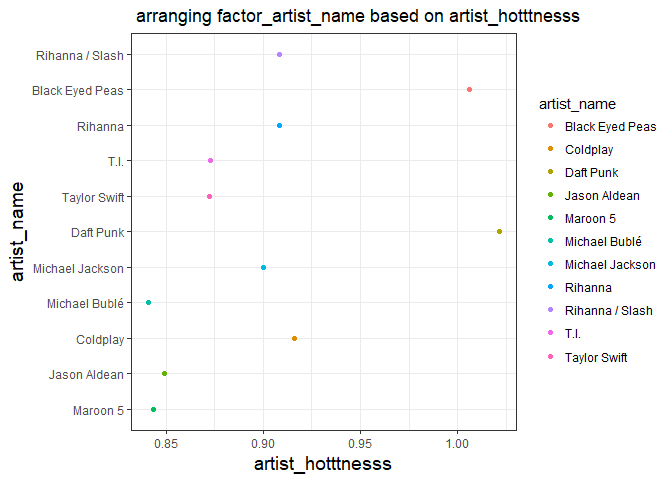
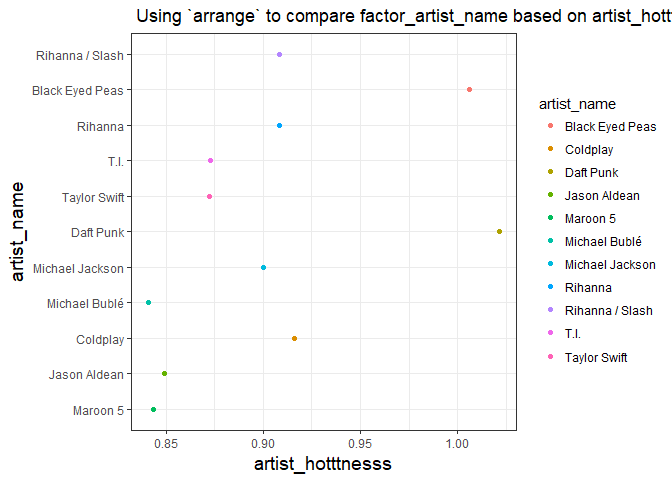
Finish file I/O

Changed region(s): [[0.1875, 0.0, 1.0, 0.0625]]

diff --git a/hm5/hm05_Luo_Yanchao.md b/hm5/hm05_Luo_Yanchao.md
@@ -398,10 +398,10 @@ newsinger_locations4 <- singer_locations %>%
 
 -   Reorder the `title` by another variable `artist_hotttnesss`.
 
-backwards.
+Order the mean value instead of median value and using backwards.
 
 ``` r
-fct_reorder(newsinger_locations4$factor_title, newsinger_locations4$artist_hotttnesss,desc = TRUE) %>% 
+fct_reorder(newsinger_locations4$factor_title, newsinger_locations4$artist_hotttnesss, mean, desc = TRUE) %>% 
   levels() %>%  head() 
 ```
 
@@ -410,19 +410,16 @@ fct_reorder(newsinger_locations4$factor_title, newsinger_locations4$artist_hottt
 
 -   Reorder the `artist_name` by another variable `artist_hotttnesss`
 
-Order the minimun value of artist\_hotttnesss
+Order the maximum value of artist\_hotttnesss and using backwards
 
 ``` r
-fct_reorder(newsinger_locations4$factor_artist_name, newsinger_locations4$artist_hotttnesss, max) %>% 
+fct_reorder(newsinger_locations4$factor_artist_name, newsinger_locations4$artist_hotttnesss, max,desc = TRUE) %>% 
   levels() %>%  head()
 ```
 
-    ## [1] "The Freelance Hellraiser"                  
-    ## [2] "Col. Bruce Hampton and the Late Bronze Age"
-    ## [3] "The Jancee Pornick Casino"                 
-    ## [4] "Elliott Sharp`s Terraplane"                
-    ## [5] "Main Concept"                              
-    ## [6] "Jessie Lee Miller"
+    ## [1] "Motion City Soundtrack"         "Gene Chandler"                 
+    ## [3] "Paul Horn"                      "Ronnie Earl & the Broadcasters"
+    ## [5] "Dorothy Ashby"                  "Barleyjuice"
 
 ##### Common part:
 
@@ -440,9 +437,160 @@ newsinger_locations4 %>%
   geom_point(aes(colour=artist_name)) +
  labs(x="artist_hotttnesss", 
           y="artist_name",
-          title=" arranging factor_artist_name based on artist_hotttnesss")+
+          title=" Using `arrange` to compare factor_artist_name based on artist_hotttnesss")+
   theme_bw()+
   theme( axis.title = element_text(size=14))
 ```
 
 ![](hm05_Luo_Yanchao_files/figure-markdown_github-ascii_identifiers/unnamed-chunk-17-1.png)
+
+Onlying use the `arrange` function, it will only arrange the `artist_hotttnesss` and keep the order of `artist_name`. + Using `reordering` function to see how to change the factor `title` and `artist_name`.
+
+``` r
+newsinger_locations4 %>% 
+  filter(artist_hotttnesss>0.840) %>% 
+  ggplot(aes(x=artist_hotttnesss,y=fct_reorder(factor_artist_name, artist_hotttnesss,max,desc = TRUE))) + 
+  geom_point(aes(colour=artist_name)) +
+ labs(x="artist_hotttnesss", 
+          y="artist_name",
+          title=" Using ``reorder` to arrange factor_artist_name based on artist_hotttnesss")+
+  theme_bw()+
+  theme( axis.title = element_text(size=14))
+```
+
+![](hm05_Luo_Yanchao_files/figure-markdown_github-ascii_identifiers/unnamed-chunk-18-1.png)
+
+Using `reorder` often makes plots much better. We could see who is the most popular artist and how hot he is.
+
+-   Using `reorder` and `arrange` function to see how to change the factor `title` and `artist_name`.
+
+``` r
+newsinger_locations4 %>% 
+  arrange(artist_hotttnesss) %>% 
+  filter(artist_hotttnesss>0.840) %>% 
+  ggplot(aes(x=artist_hotttnesss,y=fct_reorder(factor_artist_name, artist_hotttnesss,max,desc = TRUE))) + 
+  geom_point(aes(colour=artist_name)) +
+ labs(x="artist_hotttnesss", 
+          y="artist_name",
+          title=" Compare the  factor_artist_name based on artist_hotttnesss")+
+  theme_bw()+
+  theme( axis.title = element_text(size=14))
+```
+
+![](hm05_Luo_Yanchao_files/figure-markdown_github-ascii_identifiers/unnamed-chunk-19-1.png)
+
+There is no change compared with the graph, which only use `reorder` function.
+
+File I/O
+--------
+
+*Experiment with one or more of `write_csv()`/`read_csv()` (and/or TSV friends), `saveRDS()`/`readRDS()`, `dput()`/`dget()`. Create something new, probably by filtering or grouped-summarization of Singer or Gapminder. I highly recommend you fiddle with the factor levels, i.e. make them non-alphabetical (see previous section). Explore whether this survives the round trip of writing to file then reading back in.*
+
+##### `write_csv` and `read_csv()`.
+
+``` r
+artist_hotttnesss_max <- newsinger_locations4 %>%
+  mutate(factor_artist_name = fct_reorder(factor_artist_name, artist_hotttnesss,max, desc = TRUE)) %>%
+  group_by(factor_artist_name) %>%
+   summarise(max_artist_hotttnesss=max(artist_hotttnesss))
+```
+
+``` r
+readr::write_csv(artist_hotttnesss_max, "artist_hotttnesss")
+head(write_csv(artist_hotttnesss_max, "artist_hotttnesss"))
+```
+
+    ## # A tibble: 6 x 2
+    ##               factor_artist_name max_artist_hotttnesss
+    ##                           <fctr>                 <dbl>
+    ## 1         Motion City Soundtrack             0.6410183
+    ## 2                  Gene Chandler             0.3937627
+    ## 3                      Paul Horn             0.4306226
+    ## 4 Ronnie Earl & the Broadcasters             0.3622792
+    ## 5                  Dorothy Ashby             0.4107520
+    ## 6                    Barleyjuice             0.3762635
+
+Using `read_csv()`.
+
+``` r
+readr::read_csv("artist_hotttnesss")
+```
+
+    ## Parsed with column specification:
+    ## cols(
+    ##   factor_artist_name = col_character(),
+    ##   max_artist_hotttnesss = col_double()
+    ## )
+
+    ## # A tibble: 7,498 x 2
+    ##                factor_artist_name max_artist_hotttnesss
+    ##                             <chr>                 <dbl>
+    ##  1         Motion City Soundtrack             0.6410183
+    ##  2                  Gene Chandler             0.3937627
+    ##  3                      Paul Horn             0.4306226
+    ##  4 Ronnie Earl & the Broadcasters             0.3622792
+    ##  5                  Dorothy Ashby             0.4107520
+    ##  6                    Barleyjuice             0.3762635
+    ##  7                 Vertigo Angels             0.1814601
+    ##  8                Wir Sind Helden             0.4743547
+    ##  9              Simon & Garfunkel             0.5103250
+    ## 10                    Rabia Sorda             0.4196401
+    ## # ... with 7,488 more rows
+
+``` r
+str(readr::read_csv("artist_hotttnesss"))
+```
+
+    ## Parsed with column specification:
+    ## cols(
+    ##   factor_artist_name = col_character(),
+    ##   max_artist_hotttnesss = col_double()
+    ## )
+
+    ## Classes 'tbl_df', 'tbl' and 'data.frame':    7498 obs. of  2 variables:
+    ##  $ factor_artist_name   : chr  "Motion City Soundtrack" "Gene Chandler" "Paul Horn" "Ronnie Earl & the Broadcasters" ...
+    ##  $ max_artist_hotttnesss: num  0.641 0.394 0.431 0.362 0.411 ...
+    ##  - attr(*, "spec")=List of 2
+    ##   ..$ cols   :List of 2
+    ##   .. ..$ factor_artist_name   : list()
+    ##   .. .. ..- attr(*, "class")= chr  "collector_character" "collector"
+    ##   .. ..$ max_artist_hotttnesss: list()
+    ##   .. .. ..- attr(*, "class")= chr  "collector_double" "collector"
+    ##   ..$ default: list()
+    ##   .. ..- attr(*, "class")= chr  "collector_guess" "collector"
+    ##   ..- attr(*, "class")= chr "col_spec"
+
+I found we do not change the characteristic of `artist_name` from `chr` to `Factor`.
+
+##### `saveRDS()` and `readRDS()`
+
+`saveRDS()` serializes an R object to a binary file. `saveRDS()` has more arguments, in particular compress for controlling compression, so read the help for more advanced usage.
+
+``` r
+saveRDS(artist_hotttnesss_max, "artist_hotttnesss_max.rds")
+artist_hotttnesss_max1<-readRDS("artist_hotttnesss_max.rds")
+str(artist_hotttnesss_max1)
+```
+
+    ## Classes 'tbl_df', 'tbl' and 'data.frame':    7498 obs. of  2 variables:
+    ##  $ factor_artist_name   : Factor w/ 7498 levels "Motion City Soundtrack",..: 1 2 3 4 5 6 7 8 9 10 ...
+    ##  $ max_artist_hotttnesss: num  0.641 0.394 0.431 0.362 0.411 ...
+
+I found this time we have change the `artist_name` as `Factor`.
+
+`dput()`/`dget()`
+
+``` r
+dput(artist_hotttnesss_max, "artist_hotttnesss_max_dput.txt")
+artist_hotttnesss_max2 <- dget("artist_hotttnesss_max_dput.txt")
+str(artist_hotttnesss_max2)
+```
+
+    ## Classes 'tbl_df', 'tbl' and 'data.frame':    7498 obs. of  2 variables:
+    ##  $ factor_artist_name   : Factor w/ 7498 levels "Motion City Soundtrack",..: 1 2 3 4 5 6 7 8 9 10 ...
+    ##  $ max_artist_hotttnesss: num  0.641 0.394 0.431 0.362 0.411 ...
+
+Using `dput` will change the `artist_name` as `Factor`.
+
+Visualization design
+--------------------
